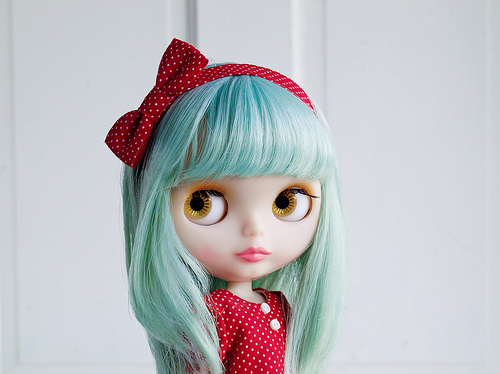
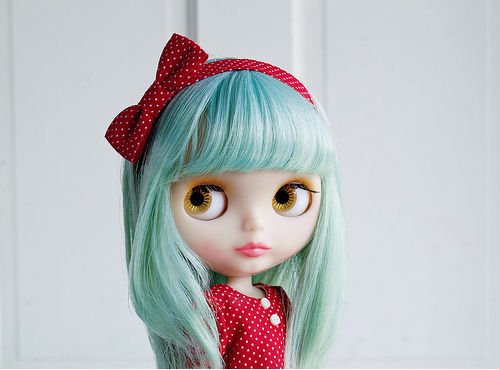
arreglo tamaño imagenes y cambios en html y css

diff --git a/index.html b/index.html
@@ -27,24 +27,35 @@
     <!--esta section tiene row imagenes y row botones de punto-->
     <div class="container-fluid">
         <div class="row">
-            <div class="col-md-3 col-md-offset-4 wrap">
-                <img src="assets/img/1.jpg" alt="1" id="blythe1">
-                <img src="assets/img/2.jpg" alt="2" id="blythe2">
-                <img src="assets/img/3.jpg" alt="3" id="blythe3">
-                <img src="assets/img/4.jpg" alt="4" id="blythe4">
-                <img src="assets/img/5.jpg" alt="5" id="blythe5">
-                <img src="assets/img/6.jpg" alt="6" id="blythe6">
-            </div>
-        </div>
-
-        <div class="row">
-            <div class="col-md-12 text-center" id="botones">
-                <span class="btn"><i class="fa fa-gratipay" aria-hidden="true"></i></span>
-                <span class="btn"><i class="fa fa-gratipay" aria-hidden="true"></i></span>
-                <span class="btn"><i class="fa fa-gratipay" aria-hidden="true"></i></span>
-                <span class="btn"><i class="fa fa-gratipay" aria-hidden="true"></i></span>
-                <span class="btn"><i class="fa fa-gratipay" aria-hidden="true"></i></span>
-                <span class="btn"><i class="fa fa-gratipay" aria-hidden="true"></i></span>
+            <div class="col-md-12">
+                <div class="row">
+                    <div class="col-md-12 wrap">
+                        <div id="img-slider">
+                            <div id="slider">
+                                <section><img src="assets/img/1.jpg" alt="1" id="blythe1"></section>
+                                <section><img src="assets/img/2.jpg" alt="2" id="blythe2"></section>
+                                <section><img src="assets/img/3.jpg" alt="3" id="blythe3"></section>
+                                <section><img src="assets/img/4.jpg" alt="4" id="blythe4"></section>
+                                <section><img src="assets/img/5.jpg" alt="5" id="blythe5"></section>
+                                <section><img src="assets/img/6.jpg" alt="6" id="blythe6"></section>
+                            </div>
+                        </div>
+                        <!-- botones -->
+                        <div id="btn-prev"><i class="fa fa-chevron-circle-left" aria-hidden="true"></i></div>
+                        <div id="btn-next"><i class="fa fa-chevron-circle-right" aria-hidden="true"></i></div>
+                    </div>
+                </div>
+                <!-- iconos -->
+                <div class="row">
+                    <div class="col-md-12 text-center" id="botones">
+                        <span class="btn"><i class="fa fa-gratipay" aria-hidden="true"></i></span>
+                        <span class="btn"><i class="fa fa-gratipay" aria-hidden="true"></i></span>
+                        <span class="btn"><i class="fa fa-gratipay" aria-hidden="true"></i></span>
+                        <span class="btn"><i class="fa fa-gratipay" aria-hidden="true"></i></span>
+                        <span class="btn"><i class="fa fa-gratipay" aria-hidden="true"></i></span>
+                        <span class="btn"><i class="fa fa-gratipay" aria-hidden="true"></i></span>
+                    </div>
+                </div>
             </div>
         </div>
     </div>

diff --git a/assets/css/style.css b/assets/css/style.css
@@ -1,8 +1,64 @@
-/* 500 * 374 */
+/* 500 * 370 */
 
-body {
+* {
     margin: 0 auto;
-    padding: 0
+    padding: 0;
+    box-sizing: border-box;
+}
+
+body {}
+
+#img-slider {
+    margin: auto;
+    width: 100%;
+    max-width: 370px;
+    position: relative;
+    overflow: hidden;
+    box-shadow: 0 0 0 10px #fff, 0 15px 50px;
+}
+
+#slider {
+    display: flex;
+    /*6 imgs 600%*/
+    width: 600%;
+}
+
+#slider section {
+    width: 100%;
+}
+
+#slider img {
+    display: block;
+    width: 100%;
+    height: 100%;
+}
+
+#btn-prev,
+#btn-next {
+    width: 40px;
+    background: rgba(250, 20, 200, .7);
+    position: absolute;
+    top: 50%;
+    transform: translateY(-50%);
+    line-height: 40px;
+    font-size: 22px;
+    font-weight: bold;
+    text-align: center;
+    cursor: pointer;
+    border-radius: 50%;
+}
+
+#btn-prev:hover,
+#btn-next:hover {
+    background: rgba(100, 255, 255, .1);
+}
+
+#btn-prev {
+    left: 400px;
+}
+
+#btn-next {
+    right: 400px;
 }
 
 #title h1 {
@@ -12,8 +68,7 @@ body {
 }
 
 .wrap {
-    width: 450px;
-    height: 350px;
+    padding: 20px;
     overflow: hidden;
     position: absolute;
 }
